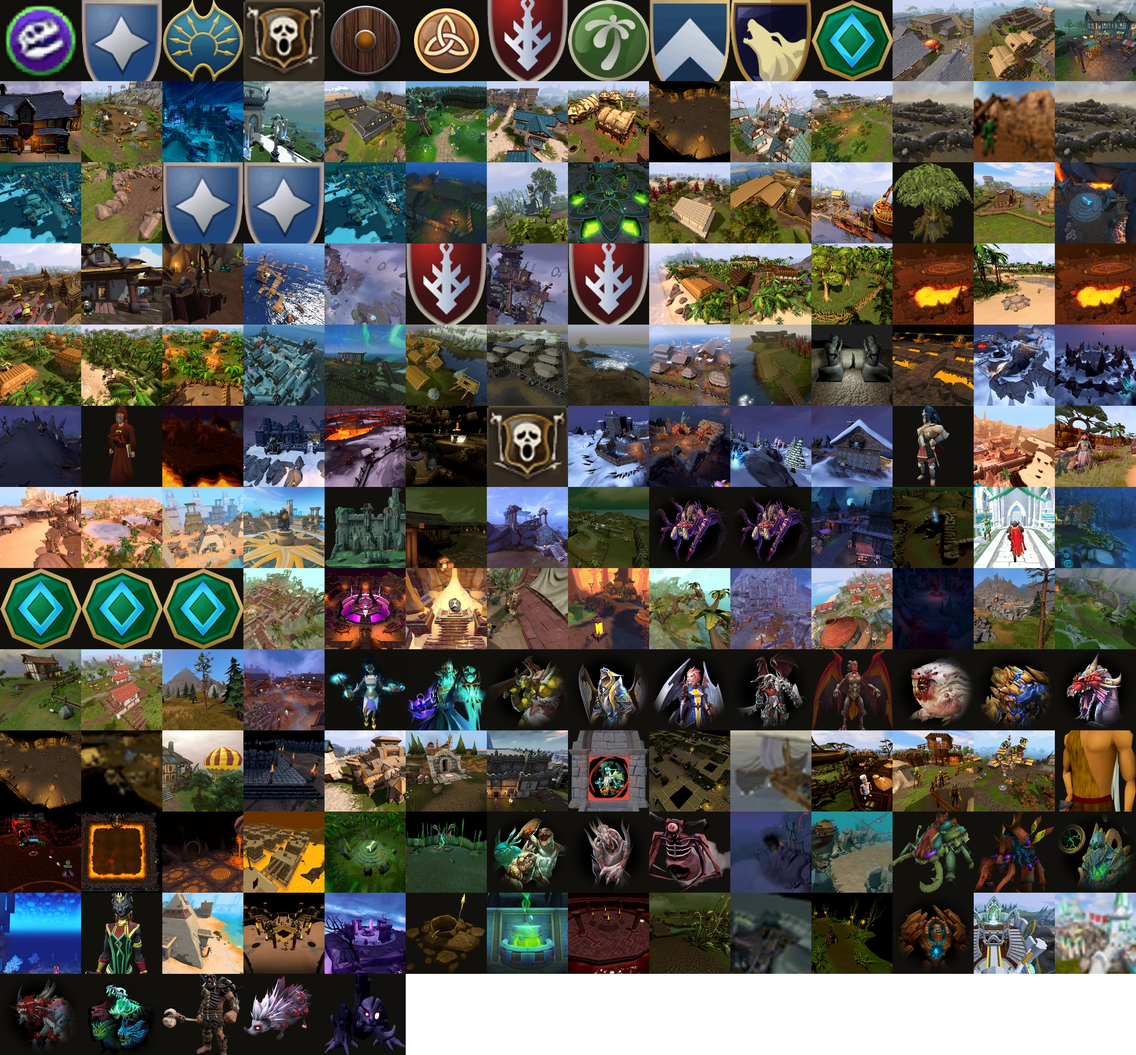
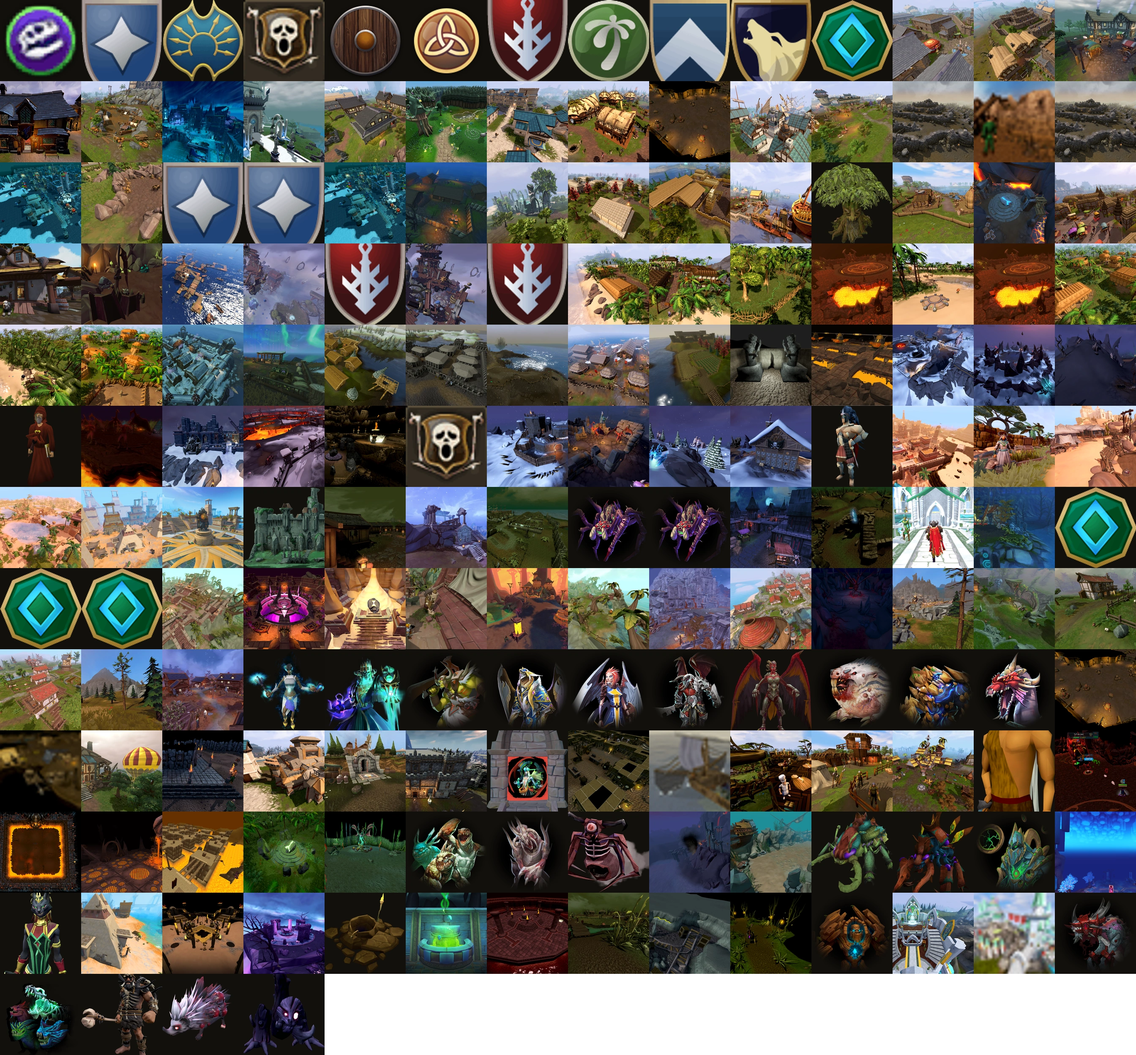
Replace Abandoned Mine pin with wiki location plate.

diff --git a/src/map/PlaceMarkers.tsx b/src/map/PlaceMarkers.tsx
@@ -57,8 +57,8 @@ function pinScale(place: PlaceAnchor) {
   return { face: FACE_AREA, beamH: BEAM_H_AREA, beamR: BEAM_R_BASE_AREA, foot: FOOT_AREA };
 }
 
-export const POI_ATLAS_URL = "/map/poi-atlas.json?v=wiki202";
-export const POI_ATLAS_IMAGE = "/map/poi-atlas.webp?v=wiki202";
+export const POI_ATLAS_URL = "/map/poi-atlas.json?v=wiki203";
+export const POI_ATLAS_IMAGE = "/map/poi-atlas.webp?v=wiki203";
 
 export interface AtlasIndex {
   cell: number;
